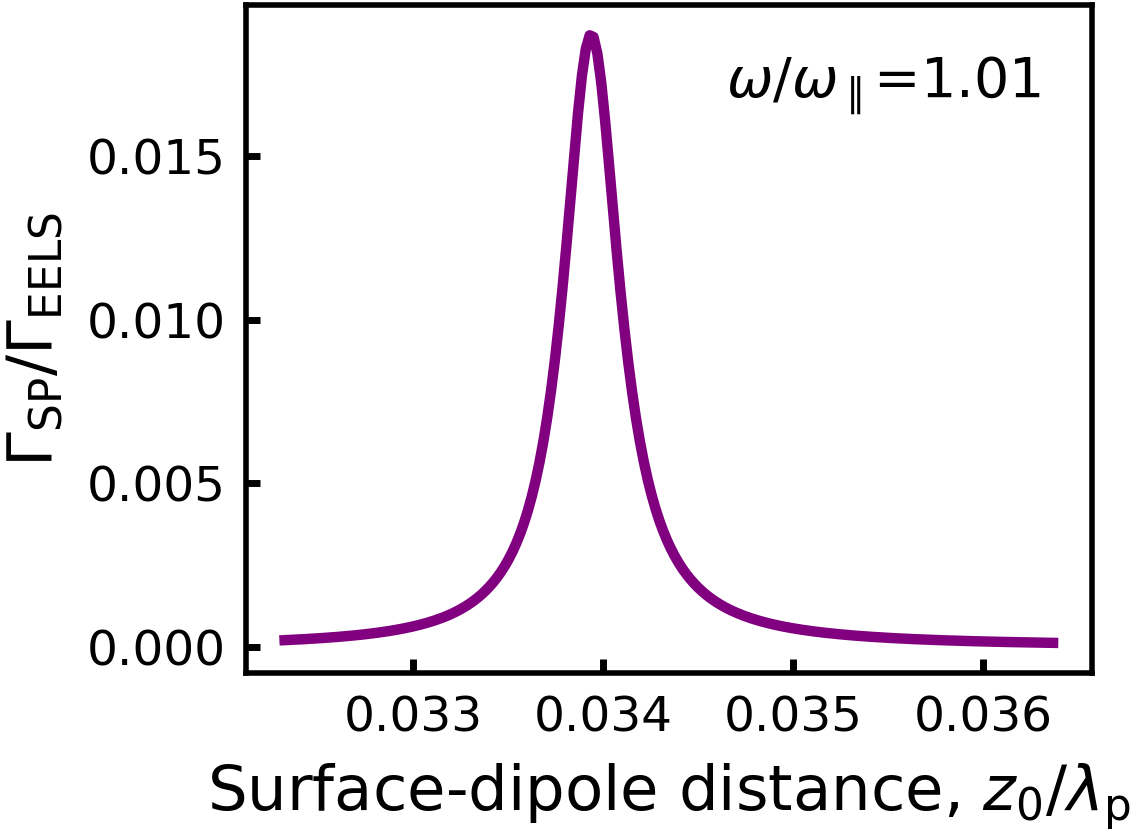
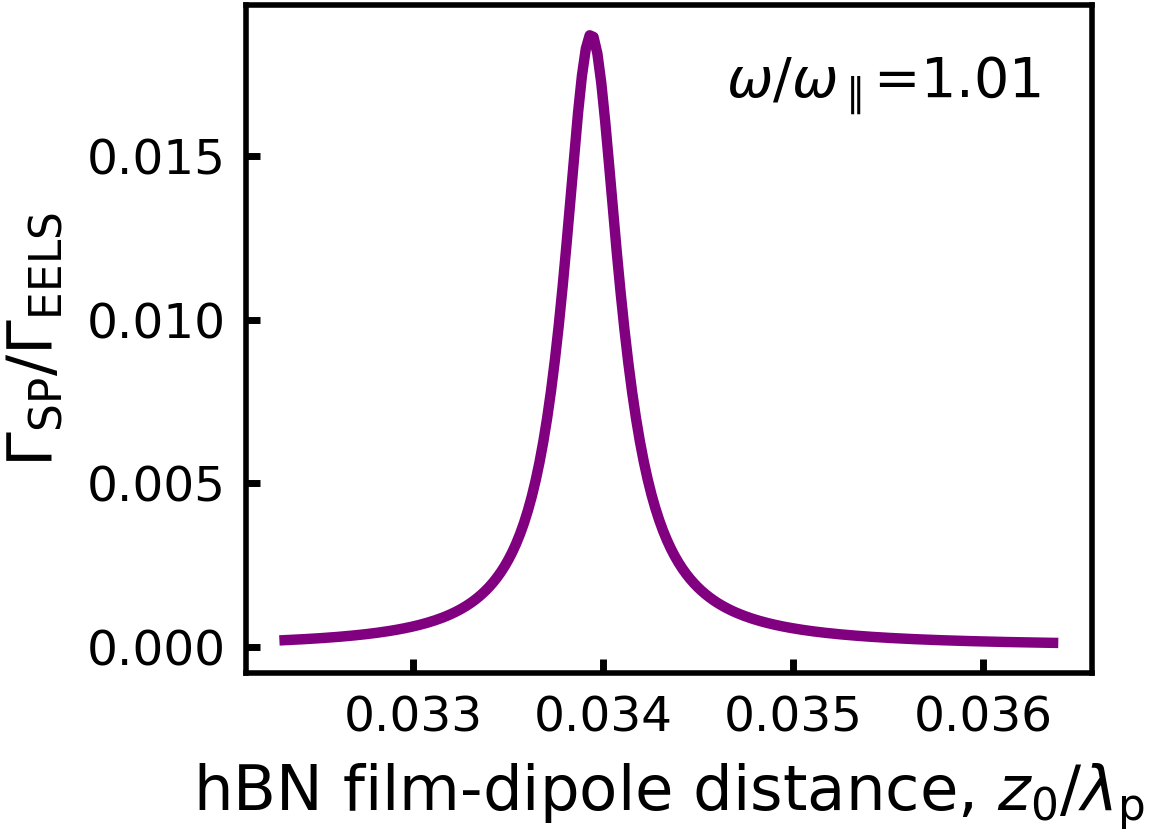
update from icfo dell

diff --git a/hBn-disks-v2/1_dipole/plot_decay_rate_film_normalized.py b/hBn-disks-v2/1_dipole/plot_decay_rate_film_normalized.py
@@ -74,12 +74,12 @@ b = -0.01
 d_nano_film = 1
 
 D_disk_nano = 100
-d_thickness_disk_nano = 0.9
+d_thickness_disk_nano = 0.955
 #title1 = r'$\kappa$ = %.2f$\omega_0$, $\kappa_r$ = %.2f$\kappa$, $E_0$=%i meV' %(kappa_factor_omega0, kappa_r_factor, energy0_pol)     
 #title2 = r'$\hbar\mu$ = %.2feV, $\hbar\gamma$ = %.4feV' %(hbmu,hbgama) 
 #title3 = r'$z_p$=%inm, px=%i, py=%i, pz=%i' %(zp*1e3,px,py,pz)
 title4 = r'b = %i nm' %(b*1e3)
-labelp = r'_res_dfilm%.2fnm_ddisk%.2fnm_D%inm' %(d_nano_film,d_thickness_disk_nano,D_disk_nano) 
+labelp = r'_res_dfilm%.2fnm_ddisk%.3fnm_D%inm' %(d_nano_film,d_thickness_disk_nano,D_disk_nano) 
 
 N = 200
 
@@ -149,7 +149,7 @@ if plot_vs_zp == 1 :
 #    E0 = 0.175
 #    E0 = 0.195
 #    
-    labelx = r'Surface-dipole distance, $z_{\rm 0}$/$\lambda_{\rm p}$'   
+    labelx = r'hBN film-dipole distance, $z_{\rm 0}$/$\lambda_{\rm p}$'   
     title4 = title4 + ', ' + r'v = c/%i, $\hbar\omega$ = %i eV' %(int_v0,E0)
     label1 = 'vs_zp' + labelp + '_E%imeV' %(E0*1e3)
 #    listx = np.linspace(0.0001,2,N)

diff --git a/hBn-disks-v2/1_dipole/plot_optimum_zp_decay_rate_film.py b/hBn-disks-v2/1_dipole/plot_optimum_zp_decay_rate_film.py
@@ -20,8 +20,8 @@ from scipy.signal import find_peaks
 #%%
 
 
-create_data = 1
-load_data = 0
+create_data = 0
+load_data = 1
 
 #%%
 
@@ -300,7 +300,7 @@ if load_data == 1:
         rta = listy[ind]/list_lambda_p[ind]
         list_zp_div_lambda_p.append(rta)
     
-    labely = 'Surface-dipole' + '\n' +  r'distance  $z_{\rm 0}$/$\lambda_{\rm p}$'
+    labely = 'hBN film-dipole' + '\n' +  r'distance  $z_{\rm 0}$/$\lambda_{\rm p}$'
     labelx = r'Frequency $\omega/\omega_\parallel$'
     
     omega_D = 170.1*1e-3  ## eV sin el hbar porque se cancela con el listx 
@@ -311,7 +311,7 @@ if load_data == 1:
         lim = -1
         
     elif d_nano_film == 1:
-        list_zp_div_lambda_p = savgol_filter(list_zp_div_lambda_p, 15, 3)
+        list_zp_div_lambda_p = savgol_filter(list_zp_div_lambda_p, 99, 3)
         lim = -1
 
     graph(title,labelx,labely,tamfig,tamtitle,tamletra,tamnum,labelpadx,labelpady,pad)

diff --git a/hBn-disks-v2/1_dipole/plot_optimum_zp_decay_rate_film_with_Air.py b/hBn-disks-v2/1_dipole/plot_optimum_zp_decay_rate_film_with_Air.py
@@ -76,7 +76,7 @@ b = -0.01
 d_nano_film = 1
 
 D_disk_nano = 100
-d_thickness_disk_nano = 1
+d_thickness_disk_nano = 0.9
 #title1 = r'$\kappa$ = %.2f$\om
 
 int_v = 10
